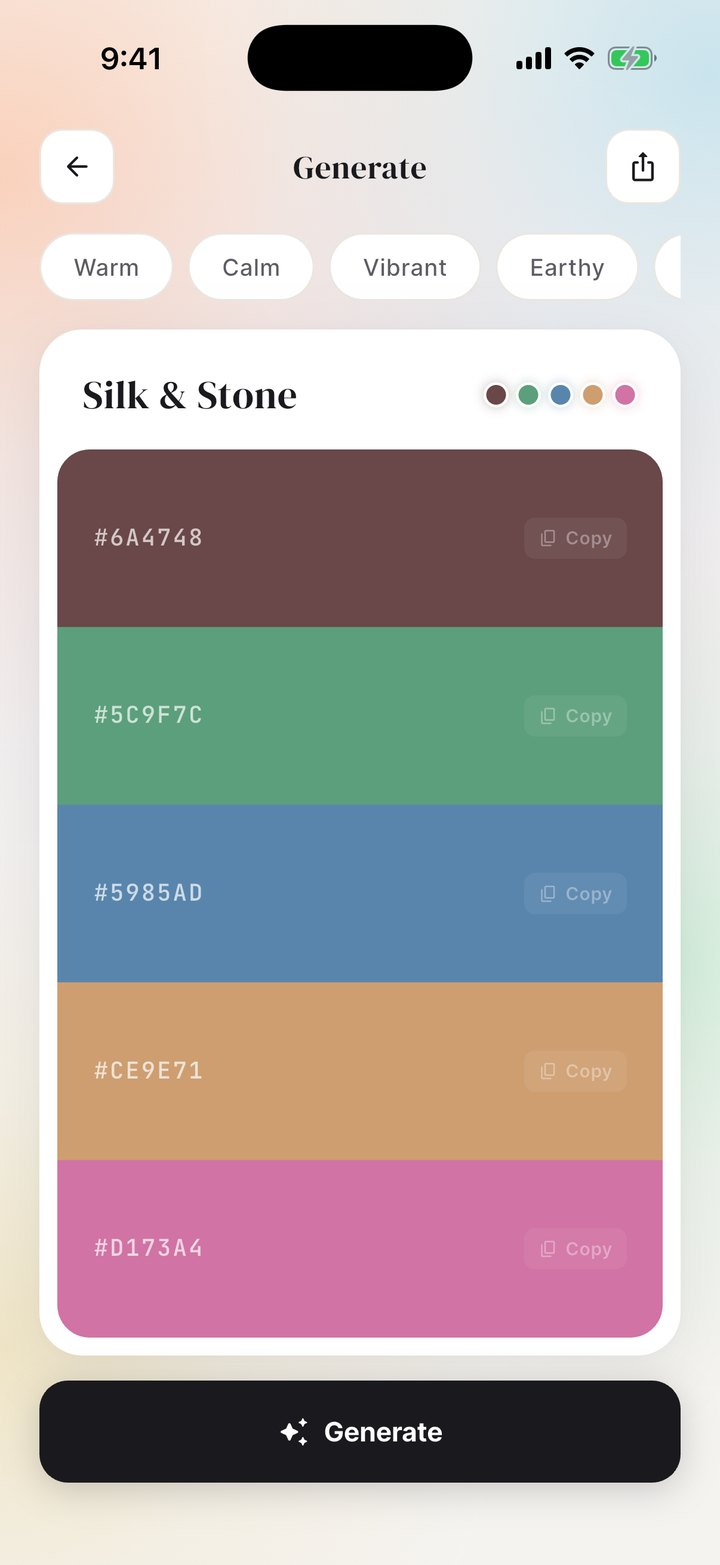
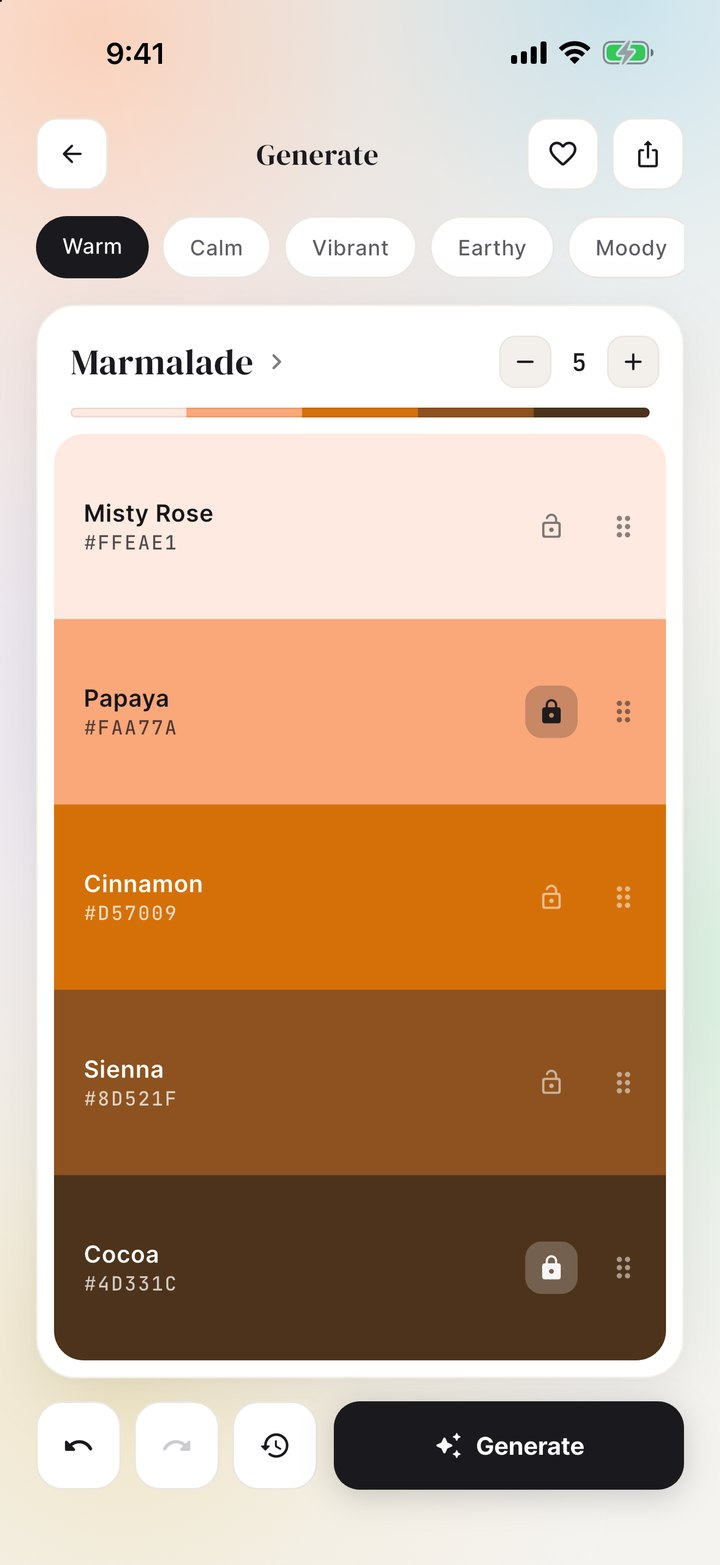
Palettely 1.1: new screens, og image and showcase
Gallery shows Generate, the palette page, Library and Moodboards from 1.1;
the homepage showcase uses the same screens.

diff --git a/Palettely/index.html b/Palettely/index.html
@@ -175,10 +175,10 @@ header.hero { overflow-x: clip; }
       <p class="sub">Real screens from Palettely. <span class="swipe-hint">Swipe to see them all.</span></p>
     </div>
     <div class="shots">
-      <div class="shot reveal"><div class="phone"><img src="shots/home.jpg" alt="The Palettely home screen with Gallery and Take a photo, Generate and Match tools, and palettes named Pacific Calm, Berry Fields and Nordic Winter" width="720" height="1565" loading="lazy"></div><h3>Home</h3><p>Start from a photo, or generate and match palettes.</p></div>
-      <div class="shot reveal d1"><div class="phone"><img src="shots/extract.jpg" alt="A photo of magenta flowers with six colours picked from it and their hex codes listed below" width="720" height="1565" loading="lazy"></div><h3>From a photo</h3><p>Pick a photo and get its colours, with codes ready to copy.</p></div>
-      <div class="shot reveal d2"><div class="phone"><img src="shots/generate.jpg" alt="The Generate screen showing a palette named Silk and Stone with five colours, Copy buttons and a Generate button" width="720" height="1565" loading="lazy"></div><h3>Generate</h3><p>Fresh palettes by mood: warm, calm, vibrant, earthy.</p></div>
-      <div class="shot reveal d3"><div class="phone"><img src="shots/welcome.jpg" alt="The Palettely welcome screen with the petal logo and the line Colours that feel like you" width="720" height="1565" loading="lazy"></div><h3>Colours that feel like you</h3><p>The welcome screen, with the petal mark.</p></div>
+      <div class="shot reveal"><div class="phone"><img src="shots/generate.jpg" alt="The Generate screen with the Warm mood selected and a palette named Marmalade running from Misty Rose to Cocoa, with Papaya and Cocoa locked" width="720" height="1565" loading="lazy"></div><h3>Lock what you love</h3><p>Pick a mood, lock your favourites and reroll the rest.</p></div>
+      <div class="shot reveal d1"><div class="phone"><img src="shots/palette.jpg" alt="The page for a palette named Matcha Latte: five greens from pale cream to deep forest, its Fresh mood, and sliders to tune lightness, vibrance and temperature" width="720" height="1565" loading="lazy"></div><h3>Every colour, explained</h3><p>Names, codes and a mood you can tune.</p></div>
+      <div class="shot reveal d2"><div class="phone"><img src="shots/library.jpg" alt="The Library with collections, mood filters, a summary of your moods and palettes named Sunday Linen, Coastal Morning, Terracotta Garden and Midnight Plum" width="720" height="1565" loading="lazy"></div><h3>Your palettes, by mood</h3><p>Collections, #hex search and your taste at a glance.</p></div>
+      <div class="shot reveal d3"><div class="phone"><img src="shots/moodboard.jpg" alt="A moodboard called Terracotta Afternoon with its five swatches, shapes in the palette colours and two landscape photos" width="720" height="1565" loading="lazy"></div><h3>Moodboards in minutes</h3><p>Photos, colour and type on a freeform canvas.</p></div>
     </div>
   </div>
 </section>

diff --git a/tools/web-images.py b/tools/web-images.py
@@ -45,7 +45,7 @@ jobs += [
 # (960 px for the landscape games in LANDSCAPE, whose cards also carry data-orient="landscape").
 # To add an app, list its screenshots here and add data-shots="..." to its card in index.html.
 SHOWCASE = {
-    'palettely': ['Palettely/shots/home.jpg', 'Palettely/shots/extract.jpg', 'Palettely/shots/generate.jpg'],
+    'palettely': ['Palettely/shots/generate.jpg', 'Palettely/shots/palette.jpg', 'Palettely/shots/library.jpg'],
     'canwasa': ['canwasa/shots/home.jpg', 'canwasa/shots/editor.jpg', 'canwasa/shots/export.jpg'],
     'nightbloom': ['NightBloom/shots/home.jpg', 'NightBloom/shots/breathe.jpg', 'NightBloom/shots/mixer.jpg'],
     'tooltrunk': ['ToolTrunk/shots/home.jpg', 'ToolTrunk/shots/compass.jpg', 'ToolTrunk/shots/sound-meter.jpg'],
